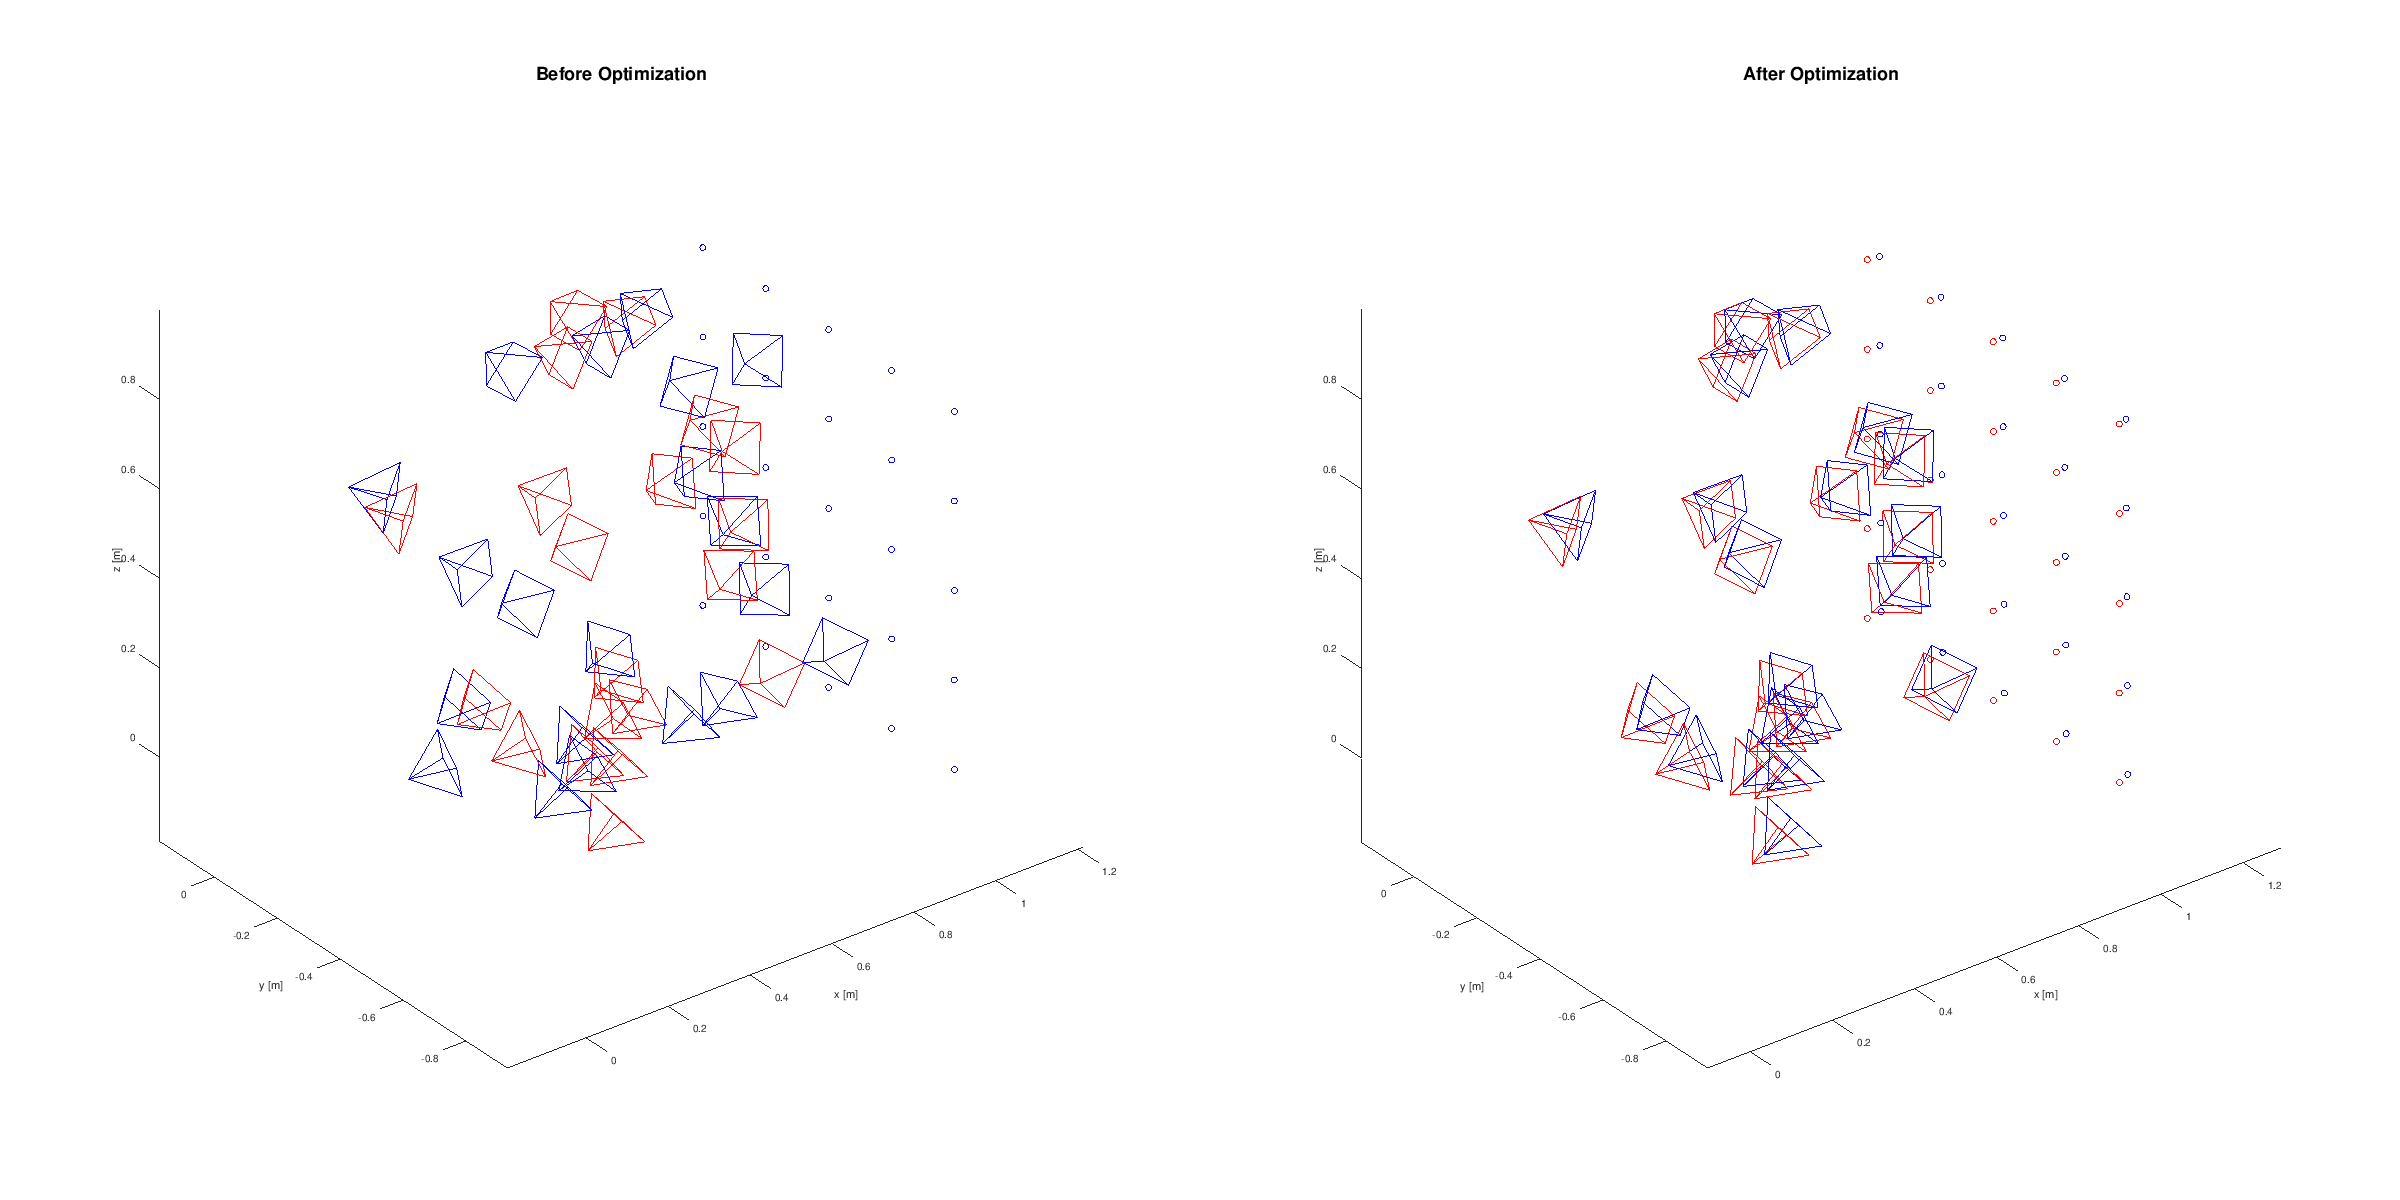
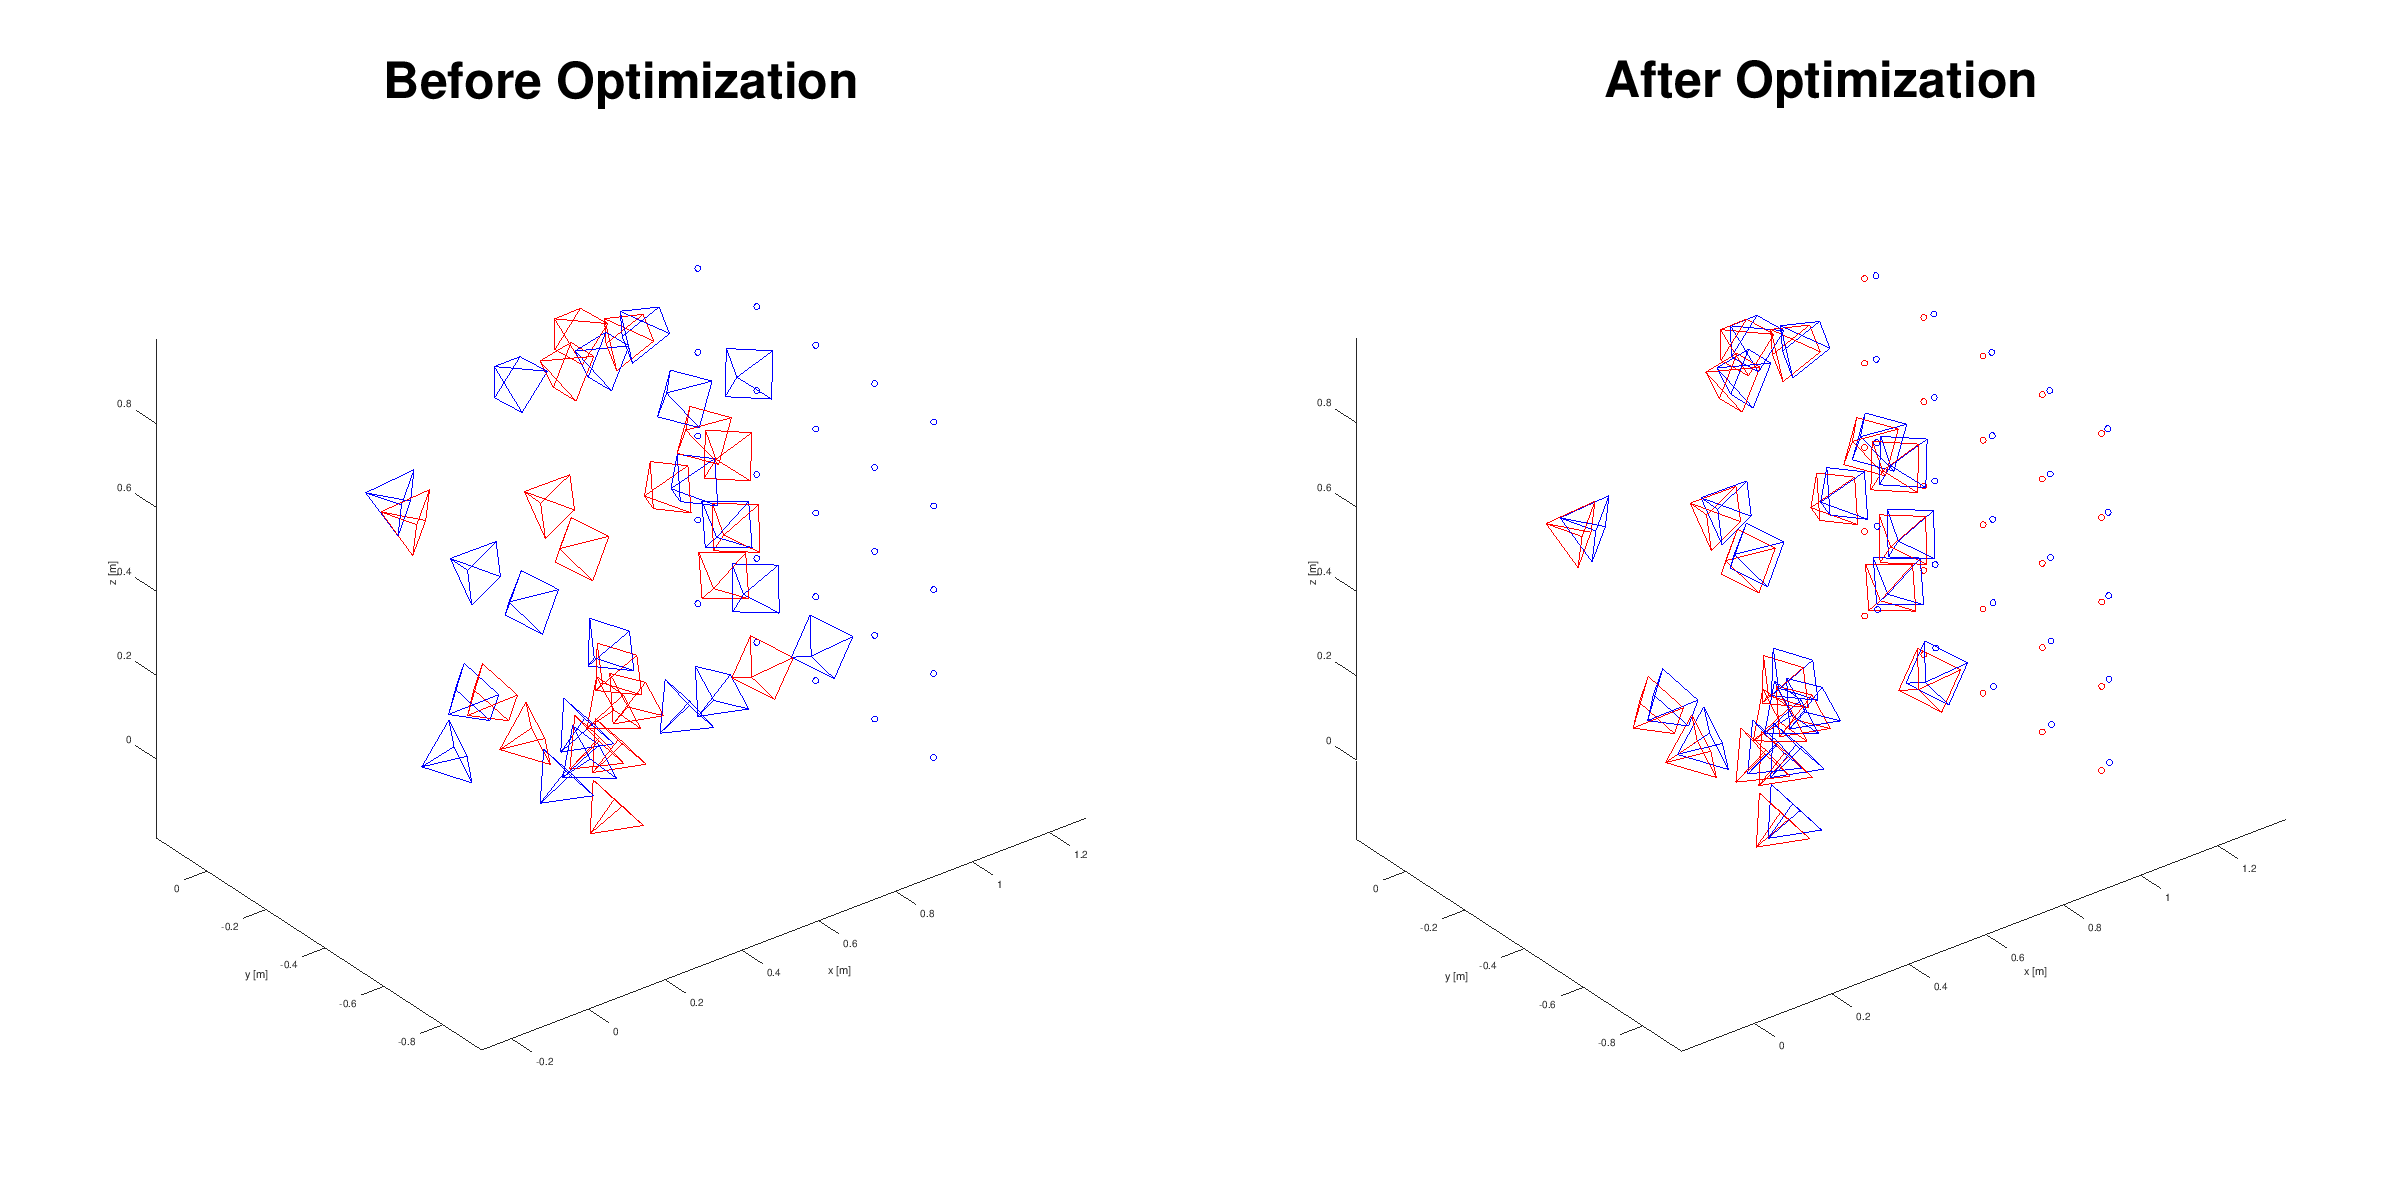
Update images and README

diff --git a/ba/sim_plot.m b/ba/sim_plot.m
@@ -1,6 +1,6 @@
 #!/usr/bin/env octave-cli
 graphics_toolkit("fltk");
-save_figs = true;
+save_figs = false;
 show_figs = true;
 data_gnd_dir = "./data_gnd";  % Ground truth data
 data_noisy_dir = "./data_noisy";  % Noisy data
@@ -228,7 +228,7 @@ function plot_data(data)
   ginput;
 endfunction
 
-function plot_compare_data(title_name, data0, data1)
+function plot_compare_data(title_name, data0, data1, save_figs)
   figure();
   clf();
   hold on;
@@ -260,7 +260,11 @@ function plot_compare_data(title_name, data0, data1)
            data1.points(:, 3), 'b');
 
   % Plot settings
-  title(title_name, "fontsize", 18);
+  if save_figs
+    title(title_name, "fontsize", 40);
+  else
+    title(title_name, "fontsize", 20);
+  end
   xlabel("x [m]");
   ylabel("y [m]");
   zlabel("z [m]");
@@ -273,12 +277,12 @@ data_gnd = load_data(data_gnd_dir);
 data_noisy = load_data(data_noisy_dir);
 data_est = load_data(data_est_dir);
 
-plot_compare_data("Before Optimization", data_gnd, data_noisy);
+plot_compare_data("Before Optimization", data_gnd, data_noisy, save_figs);
 if save_figs
   print('-dpng', '-S1200,1200', 'ba_before.png')
 endif
 
-plot_compare_data("After Optimization", data_gnd, data_est);
+plot_compare_data("After Optimization", data_gnd, data_est, save_figs);
 if save_figs
   print('-dpng', '-S1200,1200', 'ba_after.png')
 endif
